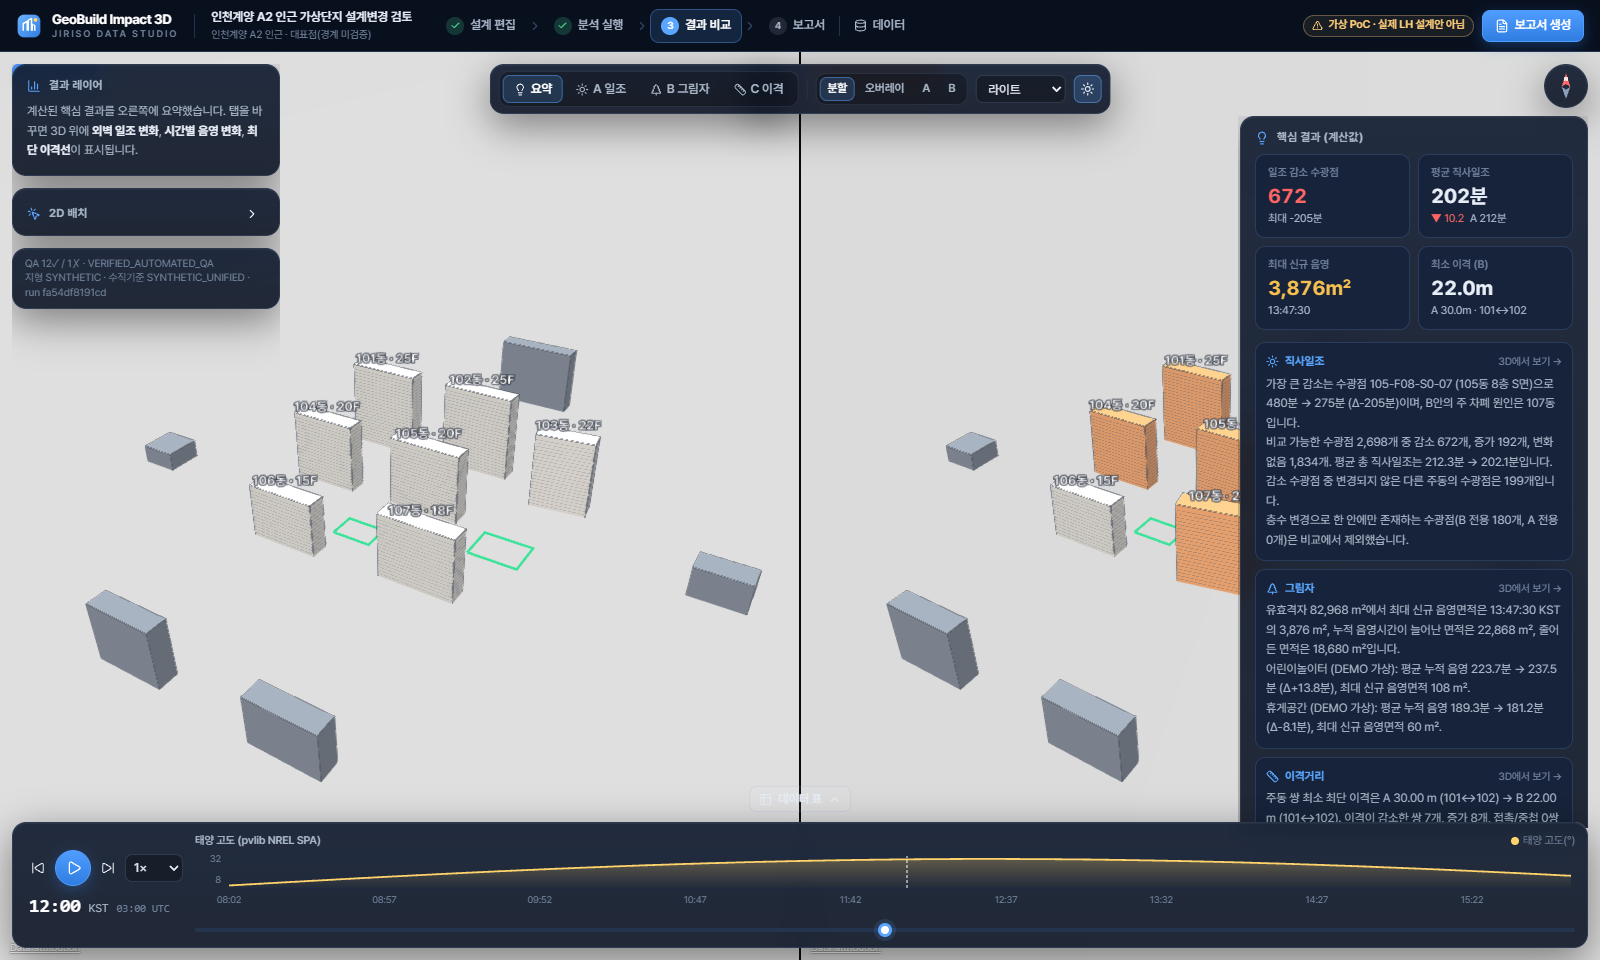
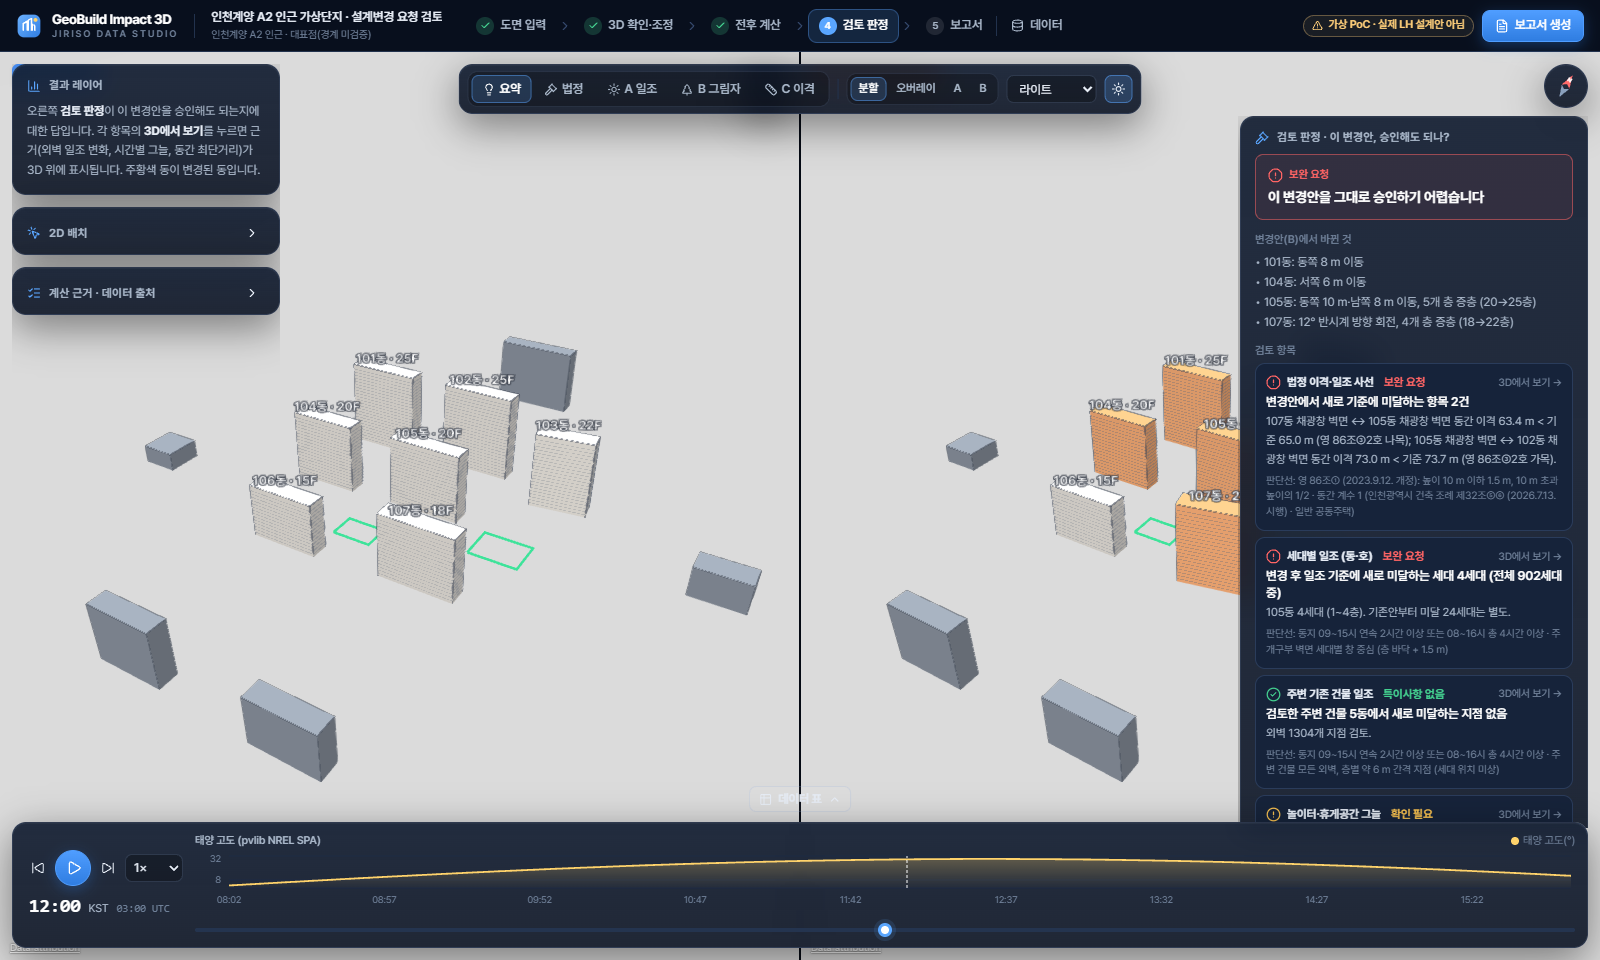
Verify merged code: 82 backend tests, full browser E2E pass; E2E follows review-verdict UI
- E2E anchors on the review verdict and legal findings, exact tab selectors, receiver-row selection
- E2E timeout 40 min (software WebGL); fresh screenshots incl. legal tab and report
- QA_RESULTS section 11: commands, results and intermediate failures with causes

Changed region(s): [[0.7812, 0.125, 1.0, 0.875], [0.0, 0.0938, 0.1875, 0.3438], [0.2188, 0.0, 0.7188, 0.1562]]

diff --git a/frontend/e2e/app.spec.ts b/frontend/e2e/app.spec.ts
@@ -53,18 +53,26 @@ test("GeoBuild Impact 3D end-to-end", async ({ page, request }) => {
   await page.getByTestId("open-compare").click();
   await page.waitForURL(/compare\//);
   const runId = page.url().split("/").pop()!;
-  await expect(page.getByTestId("summary-kpis")).toBeVisible({ timeout: 90_000 });
+  await expect(page.getByTestId("review-verdict")).toBeVisible({ timeout: 90_000 });
+  await expect(page.getByTestId("review-items")).toBeVisible();
   await page.waitForTimeout(8000);
   await page.screenshot({ path: `${SHOTS}/05_compare_summary.png` });
-  await page.getByRole("button", { name: "A 일조" }).click();
+  const legalTab = page.getByRole("button", { name: "법정", exact: true });
+  if (await legalTab.isEnabled()) {
+    await legalTab.click();
+    await expect(page.getByTestId("legal-findings")).toBeVisible({ timeout: 30_000 });
+    await page.waitForTimeout(5000);
+    await page.screenshot({ path: `${SHOTS}/05b_compare_legal.png` });
+  }
+  await page.getByRole("button", { name: "A 일조", exact: true }).click();
   await page.getByTestId("toggle-tables").click();
-  await page.locator("table.tbl tbody tr").first().click();
+  await page.locator("table.tbl tbody tr", { hasText: /\d+-F\d{2}-/ }).first().click(); // a receiver row (not the per-dwelling grid)
   await expect(page.getByTestId("receiver-detail")).toBeVisible({ timeout: 30_000 });
   await page.getByTestId("toggle-tables").click();
-  await page.getByRole("button", { name: "오버레이" }).click();
+  await page.getByRole("button", { name: "오버레이", exact: true }).click();
   await page.waitForTimeout(8000);
   await page.screenshot({ path: `${SHOTS}/06_compare_A_facade.png` });
-  await page.getByRole("button", { name: "B 그림자" }).click();
+  await page.getByRole("button", { name: "B 그림자", exact: true }).click();
   await expect(page.getByTestId("live-shadow")).toBeVisible({ timeout: 60_000 });
   const before = await page.getByTestId("live-shadow").textContent();
   await page.getByRole("button", { name: "30분 앞으로" }).click();
@@ -72,14 +80,14 @@ test("GeoBuild Impact 3D end-to-end", async ({ page, request }) => {
   await expect.poll(async () => page.getByTestId("live-shadow").textContent(), { timeout: 15_000 }).not.toBe(before);
   await page.waitForTimeout(6000);
   await page.screenshot({ path: `${SHOTS}/07_compare_B_timelapse.png` });
-  await page.getByRole("button", { name: "C 이격" }).click();
-  await page.getByRole("button", { name: "분할" }).click();
+  await page.getByRole("button", { name: "C 이격", exact: true }).click();
+  await page.getByRole("button", { name: "분할", exact: true }).click();
   await page.waitForTimeout(7000);
   await page.screenshot({ path: `${SHOTS}/08_compare_C_clearance.png` });
 
   // 6. persistence across reload
   await page.reload();
-  await expect(page.getByTestId("summary-kpis")).toBeVisible({ timeout: 60_000 });
+  await expect(page.getByTestId("review-verdict")).toBeVisible({ timeout: 60_000 });
 
   // 7. report generation + downloads
   await page.getByTestId("go-report").click();

diff --git a/frontend/playwright.config.ts b/frontend/playwright.config.ts
@@ -2,7 +2,7 @@ import { defineConfig } from "@playwright/test";
 
 export default defineConfig({
   testDir: "./e2e",
-  timeout: 25 * 60 * 1000,
+  timeout: 40 * 60 * 1000,
   reporter: [["list"], ["json", { outputFile: "../docs/qa/playwright-results.json" }]],
   use: {
     baseURL: process.env.E2E_BASE_URL ?? "http://127.0.0.1:5173",

diff --git a/docs/QA_RESULTS.md b/docs/QA_RESULTS.md
@@ -164,3 +164,22 @@ cd frontend && npx playwright test     → 1 passed (3.8m), 작업 백엔드 rq,
 | `docs/sample_report_srtm/` (SRTM) | 87dfd0b98dc0 | 37 | 1,376,584 B | 12 PASS / 1 참고 FAIL(외곽 차폐 경고), 3D 캡처 포함 |
 
 결함 9 수정 전후 SRTM 결과: 일조 감소 수광점 657 → 648, 평균 직사일조 A 212.19 → 212.29분 / B 202.57 → 202.62분, 최대 신규 음영 3,708 → 3,732 m² (offset 0.192 → 0.02 m 영향). 권고 대상은 105·102동 → 105(91점)·102(33점)·101(26점)·103(14점)동으로 확장.
+
+## 11. UX 개편 + 다른 세션 병합 후 재검증 (2026-11-18)
+
+GitHub 최신(`47eb556`: 도면 입력·법규 검토·동호별 일조·실제 주변건물·검토 의견서)과 로컬 UX 수정(`b4a0562`)을 합친 코드 기준.
+
+```
+cd backend && uv run pytest -q              → 82 passed, 2 warnings in 160.99s   (66 + 다른 세션 추가 16)
+cd frontend && npx tsc -b && npx vite build → 성공
+cd frontend && npx playwright test          → 1 passed (12.2m), 작업 백엔드 rq
+E2E OK project=07d8d5ed3ae3 run=5a9622c4543e pdf_bytes=1259255 zip_bytes=3090786
+```
+
+E2E 범위: 프로젝트 생성 → 3D 편집(값 입력·방향키 이동·Ctrl+Z 되돌리기가 서버에 순서대로 반영되는지 확인) → RQ 분석 → 검토 판정(`review-verdict`) → 법정 탭(`legal-findings`) → A 외벽 타일·수광점 상세 → B 타임라인 30분×2 이동 시 계산 음영 수치 변화 → C 분할 → 새로고침 영속성 → 보고서 PDF·ZIP 다운로드. 페이지 JS 오류 0건.
+
+이번 재검증 중 발견·수정:
+- **B안 저장 경쟁**: Enter 커밋 직후 blur 커밋, 빠른 연속 편집에서 늦게 도착한 이전 PATCH가 새 값을 덮어쓸 수 있었음 → 저장을 한 줄로 직렬화하고 서버가 마지막으로 받은 값 기준으로 차분 저장.
+- E2E 시나리오를 병합된 화면에 맞춤: 요약 탭이 검토 판정으로 바뀜, 탭 이름 정확 일치(“법정”이 판정 카드 문구와 겹침), A 탭 표 선택을 수광점 행으로 한정, 제한시간 40분(소프트웨어 WebGL 분할 화면).
+
+중간 실패(원인 기록): CPU 경합으로 시간 초과 1회, 위 저장 경쟁 1회, PC 네트워크 단절로 로컬 worker가 Railway Redis에 접속 못함 1회, 최신 코드 수신을 위한 수동 중단 1회.
